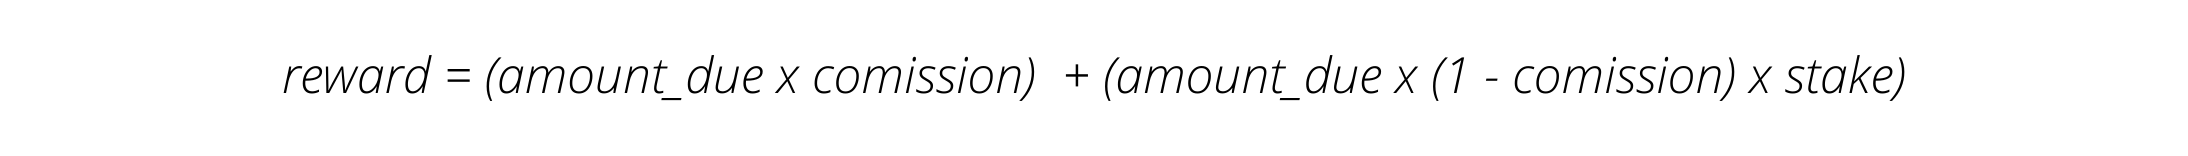
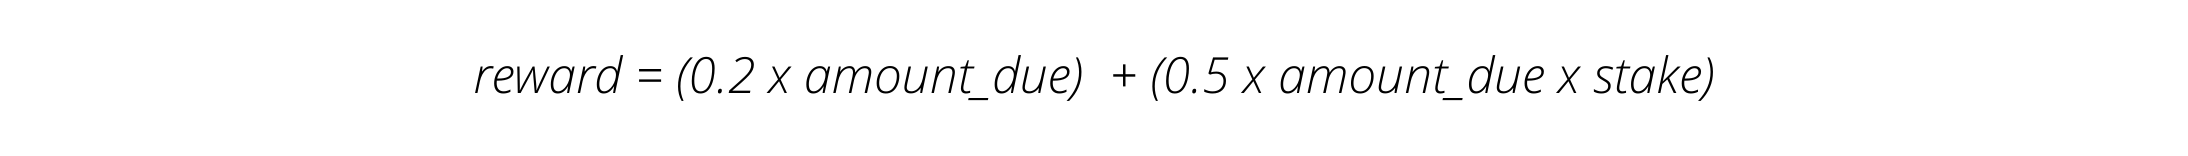
fix staking rewards

Changed region(s): [[0.1243, 0.359, 0.8702, 0.641]]

diff --git a/staking/overview.md b/staking/overview.md
@@ -43,25 +43,27 @@ Collators (and token holders if they nominate) have a stake in the network. The 
 
 ## Reward Distribution {: #reward-distribution } 
 
-At the end of every round ({{ networks.moonbase.staking.round_blocks }} blocks), collators are rewarded for their work from {{ networks.moonbase.staking.bond_lock }} rounds ago.
+Collators are rewarded at the end of every round ({{ networks.moonbase.staking.round_blocks }} blocks) for their work from {{ networks.moonbase.staking.bond_lock }} rounds ago.
 
-When collators join the set of collators, they establish a commission to charge their nominators for the service they provide. Therefore, the reward distribution goes as follows:
+The distribution of the 5% annual inflation goes as follows:
 
- - The commission is taken out of the reward to be distributed
- - The collator gets the rewards corresponding to their stake in the network, plus the commission
- - The rest of the rewards are distributed among nominators by stake
+ - 1% goes to incentivizing collators
+ - 1.5% goes to the parachain bond reserve
+ - The remaining 2.5% will go to users that stake their tokens
 
-Mathematically speaking, for collators, the reward would look like this:
+Out of that 2.5%, collators gets the rewards corresponding to their stake in the network.The rest are distributed among nominators by stake.
+
+Mathematically speaking, for collators, the reward distribution per block proposed and finalized would look like this:
 
 ![Staking Collator Reward](/images/staking/staking-overview-1.png)
 
-Where the stake corresponds to the amount of tokens bonded by the collator in respect to the total stake of that collator (accounting nominations).
+Where `amount_due` is the corresponding inflation being distributed in a specific block, the `stake` corresponds to the number of tokens bonded by the collator in respect to the total stake of that collator (accounting nominations).
 
-For each nominator, the reward would look like this:
+For each nominator, the reward distribution (per block proposed and finalized by the nominated collator) would look like this:
 
 ![Staking Nominator Reward](/images/staking/staking-overview-2.png)
 
-Where the stake corresponds to the amount of tokens bonded by each nominator in respect to the total stake of that collator.
+Where `amount_due` is the corresponding inflation being distributed in a specific block, the `stake` corresponds to the amount of tokens bonded by each nominator in respect to the total stake of that collator.
 
 ## Try it out {: #try-it-out } 
 
